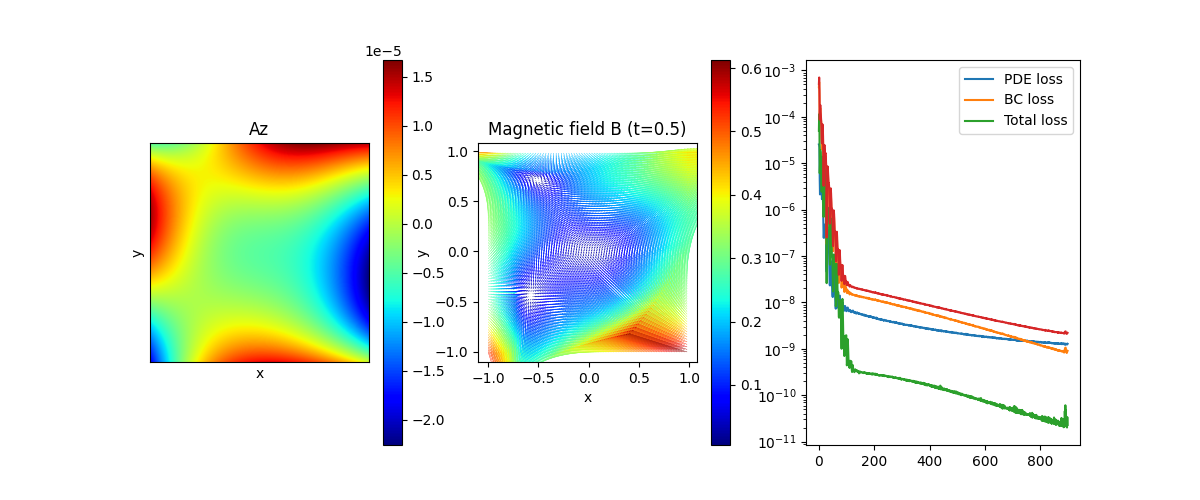
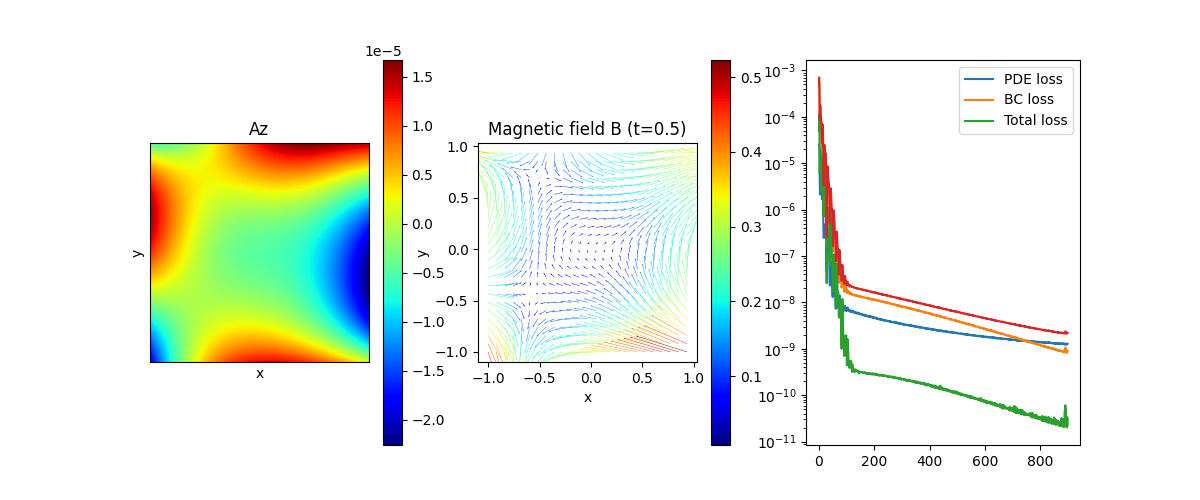
update result

diff --git a/PINN/electromagnetics/sawtooth_line_source.py b/PINN/electromagnetics/sawtooth_line_source.py
@@ -113,8 +113,8 @@ def train(args):
     # plot Az in 2D space at t = 0.5
     time = 0.3
     fig, ax = plt.subplots(1, 3, figsize=(12, 5))
-    xx = torch.linspace(-1, 1, 400).cpu()
-    yy = torch.linspace(-1, 1, 400).cpu()
+    xx = torch.linspace(-1, 1, 125).cpu()
+    yy = torch.linspace(-1, 1, 125).cpu()
     x1, y1 = torch.meshgrid([xx, yy], indexing="ij")
     s1 = x1.shape
     x1 = x1.reshape((-1, 1)).requires_grad_(True)
@@ -132,7 +132,7 @@ def train(args):
     ax[0].set_ylabel('y')
     ax[0].set_title('Az')
 
-    amplifying_factor = 8000
+    amplifying_factor = 7000
     dAz_dy = d(Az, y1) * amplifying_factor
     dAz_dx = d(Az, x1) * amplifying_factor
     Bx = dAz_dy.reshape(s1)
